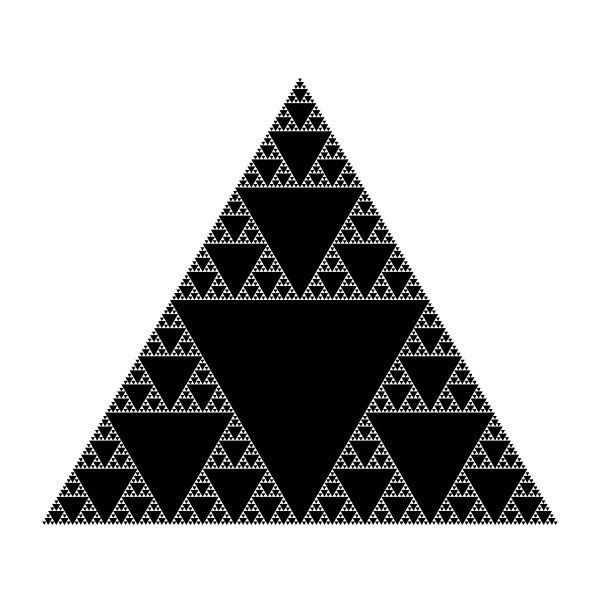
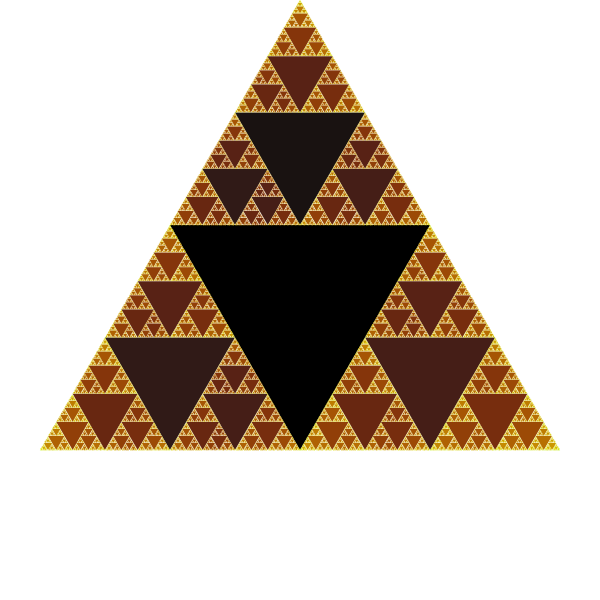
colorized

diff --git a/examples/serpinski/serpinski.py b/examples/serpinski/serpinski.py
@@ -7,17 +7,21 @@ side = 3 / sqrt(3)
 @check_limits
 def serp():
     triangle()
-    with scale(0.5):
-        with translate(0, -1):
-            serp()
-        with translate(side / 2, 0.5):
-            serp()
-        with translate(-side / 2, 0.5):
-            serp()
+    with transform(angle=120, saturation=0.3, lightness=0.1, hue=3) as t:
+        for _ in range(3):
+            with transform(scale_x=0.501, y=-0.5):
+                serp()
+            t()
+        #with translate(0, -1):
+        #    serp()
+        #with translate(side / 2, 0.5):
+        #    serp()
+        #with translate(-side / 2, 0.5):
+        #    serp()
 
 
 def main():
-    init(canvas_size=(600, 600), background_color="#ffffff", max_depth=8)
+    init(canvas_size=(600, 600), background_color="#ffffff", max_depth=11)
     with rotate(60):
         with scale(2):
             serp()
